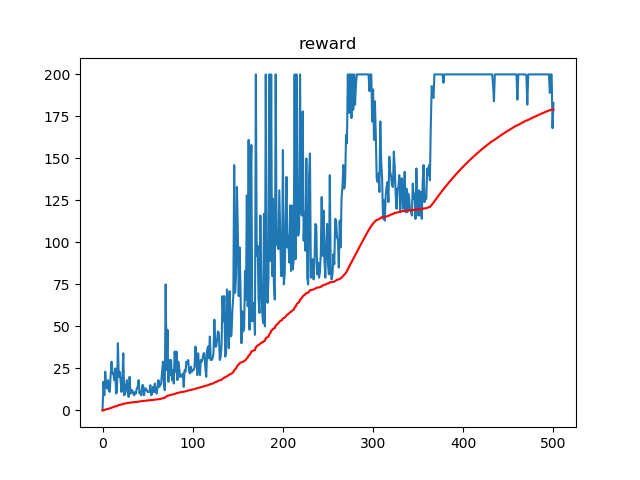
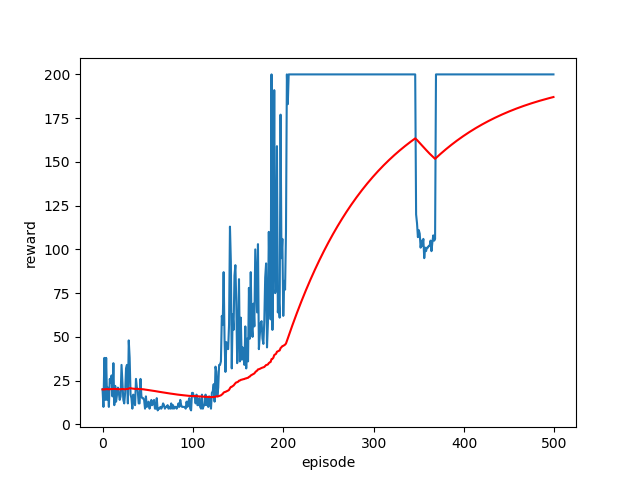
update readme, a2c, reinforce and ddpg code

diff --git a/reinforce_cartp.py b/reinforce_cartp.py
@@ -1,19 +1,21 @@
-import argparse
 import gym
 import time
-from drawnow import drawnow
+import argparse
 import matplotlib.pyplot as plt
+from drawnow import drawnow
 
 import torch
 import torch.nn as nn
 import torch.nn.functional as F
 import torch.optim as optim
 
-last_score_plot = [0]
-avg_score_plot = [0]
+last_score_plot = []
+avg_score_plot = []
 
 
 def draw_fig():
+  plt.ylabel('reward')
+  plt.xlabel('episode')
   plt.plot(last_score_plot, '-')
   plt.plot(avg_score_plot, 'r-')
 
@@ -24,6 +26,7 @@ parser.add_argument('--lr', type=float, default=1e-3)
 parser.add_argument('--max_episode', type=int, default=1000)
 cfg = parser.parse_args()
 
+
 class Policy(nn.Module):
   def __init__(self):
     super(Policy, self).__init__()
@@ -31,18 +34,17 @@ class Policy(nn.Module):
     self.fc2 = nn.Linear(128, 2)
 
   def forward(self, x):
-    x = F.relu(self.fc1(x))
+    x = F.elu(self.fc1(x))
     action_probs = F.softmax(self.fc2(x), dim=1)
     return action_probs
 
 
 env = gym.make('CartPole-v0')
-policy = Policy().cuda()
+policy = Policy()
 optimizer = optim.Adam(policy.parameters(), lr=cfg.lr)
 
 
 def get_action(state):
-  state = torch.from_numpy(state).float().cuda()[None, :]
   action_probs = policy(state)
   action_dist = torch.distributions.Categorical(action_probs)
   action = action_dist.sample()
@@ -52,22 +54,18 @@ def get_action(state):
 def update_policy(states, actions, returns):
   action_probs = policy(states)
   action_dist = torch.distributions.Categorical(action_probs)
-  act_loss = -action_dist.log_prob(actions) * returns
+  action_loss = -action_dist.log_prob(actions) * returns
   entropy = action_dist.entropy()
-  loss = torch.mean(act_loss - 1e-4 * entropy)
+  loss = torch.mean(action_loss - 1e-4 * entropy)
   optimizer.zero_grad()
   loss.backward()
-  # torch.nn.utils.clip_grad_norm(policy.parameters(), 40)
   optimizer.step()
   return
 
 
 def main():
-  # env = wrappers.Monitor(env,'./tmp/',force=True)
   state = env.reset()
 
-  iteration_now = 0
-  iteration = 0
   episode = 0
   episode_score = 0
   episode_steps = 0
@@ -78,8 +76,7 @@ def main():
   start_time = time.perf_counter()
 
   while episode < cfg.max_episode:
-    print('\riter {}, ep {}'.format(iteration_now, episode), end='')
-    action = get_action(state)
+    action = get_action(torch.from_numpy(state).float()[None, :])
 
     next_state, reward, done, _ = env.step(action)
     states.append(state)
@@ -88,31 +85,32 @@ def main():
 
     episode_score += reward
     episode_steps += 1
-    iteration_now += 1
-    iteration += 1
 
     if done:
+      # calculate discounted reward
       returns = [rewards[-1]]
       for r in rewards[-2::-1]:
         returns.append(r + cfg.gamma * returns[-1])
 
-      state_batch = torch.tensor(states).float().cuda()
-      action_batch = torch.tensor(actions).float().cuda()
-      return_batch = torch.tensor(returns[::-1]).float().cuda()
+      state_batch = torch.tensor(states).float()
+      action_batch = torch.tensor(actions).float()
+      return_batch = torch.tensor(returns[::-1]).float()
       return_batch = (return_batch - return_batch.mean()) / return_batch.std()
       update_policy(state_batch, action_batch[:, None], return_batch)
 
-      print(', score {:8f}, steps {}, ({:2f} sec/eps)'.
-            format(episode_score, episode_steps, time.perf_counter() - start_time))
-      avg_score_plot.append(avg_score_plot[-1] * 0.99 + episode_score * 0.01)
+      print('episode: %d score %.5f, steps %d, (%.2f sec/eps)' %
+            (episode, episode_score, episode_steps, time.perf_counter() - start_time))
       last_score_plot.append(episode_score)
+      if len(avg_score_plot) == 0:
+        avg_score_plot.append(episode_score)
+      else:
+        avg_score_plot.append(avg_score_plot[-1] * 0.99 + episode_score * 0.01)
       drawnow(draw_fig)
 
       start_time = time.perf_counter()
       episode += 1
       episode_score = 0
       episode_steps = 0
-      iteration_now = 0
 
       state = env.reset()
       states.clear()

diff --git a/a2c_cartp.py b/a2c_cartp.py
@@ -1,6 +1,7 @@
-import argparse
 import gym
+import time
 import numpy as np
+import argparse
 from collections import deque
 from itertools import count
 
@@ -10,15 +11,16 @@ import torch.nn.functional as F
 import torch.optim as optim
 import torch.nn.init as init
 
-from drawnow import drawnow, figure
 import matplotlib.pyplot as plt
+from drawnow import drawnow
 
-last_score_plot = [0]
-avg_score_plot = [0]
+last_score_plot = []
+avg_score_plot = []
 
 
 def draw_fig():
-  plt.title('reward')
+  plt.ylabel('reward')
+  plt.xlabel('episode')
   plt.plot(last_score_plot, '-')
   plt.plot(avg_score_plot, 'r-')
 
@@ -115,38 +117,48 @@ actor = Actor()
 critic = Critic()
 actor_optimizer = optim.Adam(actor.parameters(), lr=cfg.actor_lr)
 critic_optimizer = optim.Adam(critic.parameters(), lr=cfg.critic_lr)
-
 memory = Memory(10000)
 
-for i in range(cfg.max_episode):
-  episode_durations = 0
-  state = env.reset()
 
-  for t in count():
-    action = get_action(torch.tensor(state).float()[None, :]).item()
-    next_state, reward, done, _ = env.step(action)
+def main():
+  for episode in range(cfg.max_episode):
+    state = env.reset()
+    episode_score = 0
+    start_time = time.perf_counter()
 
-    memory.append([state, action, next_state, reward, done])
-    state = next_state
+    for episode_steps in count():
+      action = get_action(torch.tensor(state).float()[None, :]).item()
+      next_state, reward, done, _ = env.step(action)
 
-    if len(memory) > cfg.batch_size:
-      states, actions, next_states, rewards, dones = \
-        map(lambda x: torch.tensor(x).float(), zip(*memory.sample_batch(cfg.batch_size)))
+      memory.append([state, action, next_state, reward, done])
+      state = next_state
+      episode_score += reward
 
-      targets = rewards + cfg.gamma * get_state_value(next_states).detach() * (1 - dones)
-      td_errors = targets - get_state_value(states).detach()
+      if len(memory) > cfg.batch_size:
+        states, actions, next_states, rewards, dones = \
+          map(lambda x: torch.tensor(x).float(), zip(*memory.sample_batch(cfg.batch_size)))
 
-      update_actor(states=states, actions=actions, advantages=td_errors)
-      update_critic(states, targets)
+        # calculate estimated return
+        targets = rewards + cfg.gamma * get_state_value(next_states).detach() * (1 - dones)
+        td_errors = targets - get_state_value(states).detach()
 
-    if done:
-      episode_durations = t + 1
-      avg_score_plot.append(avg_score_plot[-1] * 0.99 + episode_durations * 0.01)
-      last_score_plot.append(episode_durations)
-      drawnow(draw_fig)
-      break
+        update_actor(states=states, actions=actions, advantages=td_errors)
+        update_critic(states, targets)
 
-print('Complete')
-env.close()
+      if done:
+        print('episode: %d score %.5f, steps %d, (%.2f sec/eps)' %
+              (episode, episode_score, episode_steps, time.perf_counter() - start_time))
+        last_score_plot.append(episode_score)
+        if len(avg_score_plot) == 0:
+          avg_score_plot.append(episode_score)
+        else:
+          avg_score_plot.append(avg_score_plot[-1] * 0.99 + episode_score * 0.01)
+        drawnow(draw_fig)
+        break
 
-plt.pause(0)
+  env.close()
+
+
+if __name__ == '__main__':
+  main()
+  plt.pause(0)

diff --git a/ddpg_mtcar.py b/ddpg_mtcar.py
@@ -26,7 +26,7 @@ def draw_fig():
 parser = argparse.ArgumentParser(description='PyTorch DDPG solution of MountainCarContinuous-V0')
 
 parser.add_argument('--gamma', type=float, default=0.99)
-parser.add_argument('--lr', type=float, default=1e-3)
+parser.add_argument('--lr', type=float, default=1e-4)
 parser.add_argument('--tau', type=float, default=0.001)
 parser.add_argument('--batch_size', type=int, default=256)
 parser.add_argument('--max_episode', type=int, default=200)
@@ -55,7 +55,7 @@ class Memory(object):
 # Reference: https://github.com/rllab/rllab/blob/master/rllab/exploration_strategies/ou_strategy.py
 def OUNoise():
   theta = 0.15
-  sigma = 0.2
+  sigma = 0.3
   mu = 0
   state = 0
   while True:
@@ -119,6 +119,9 @@ def get_q_value(_critic, state, action):
 
 
 def update_actor(state):
+  # here should use the target networks
+  # however, change to actor_target and critic_target can't converge
+  # still don't know why :(
   action = actor(state)
   action = torch.clamp(action, float(env.action_space.low[0]), float(env.action_space.high[0]))
   # using chain rule to calculate the gradients of actor

diff --git a/README.md b/README.md
@@ -1,8 +1,7 @@
 # Reinforcement learning algorithms **in one file**
 
-This repository is for those who want to implement the RL algorithms after reading the corresponding papers.
-All the algorithms are encapsulated in one file, which can let you focus more on the algorithm itself.
-
+This repository is for those who want to implement the RL algorithms after reading the corresponding papers, and in my experience, reading the code always gives me a better understanding of the paper.
+All the algorithms are encapsulated in one file as minimum working examples, which can let you focus more on the algorithms themself.
 ## Requirements:
 - python>=3.5
 - pytorch>=0.4.0
